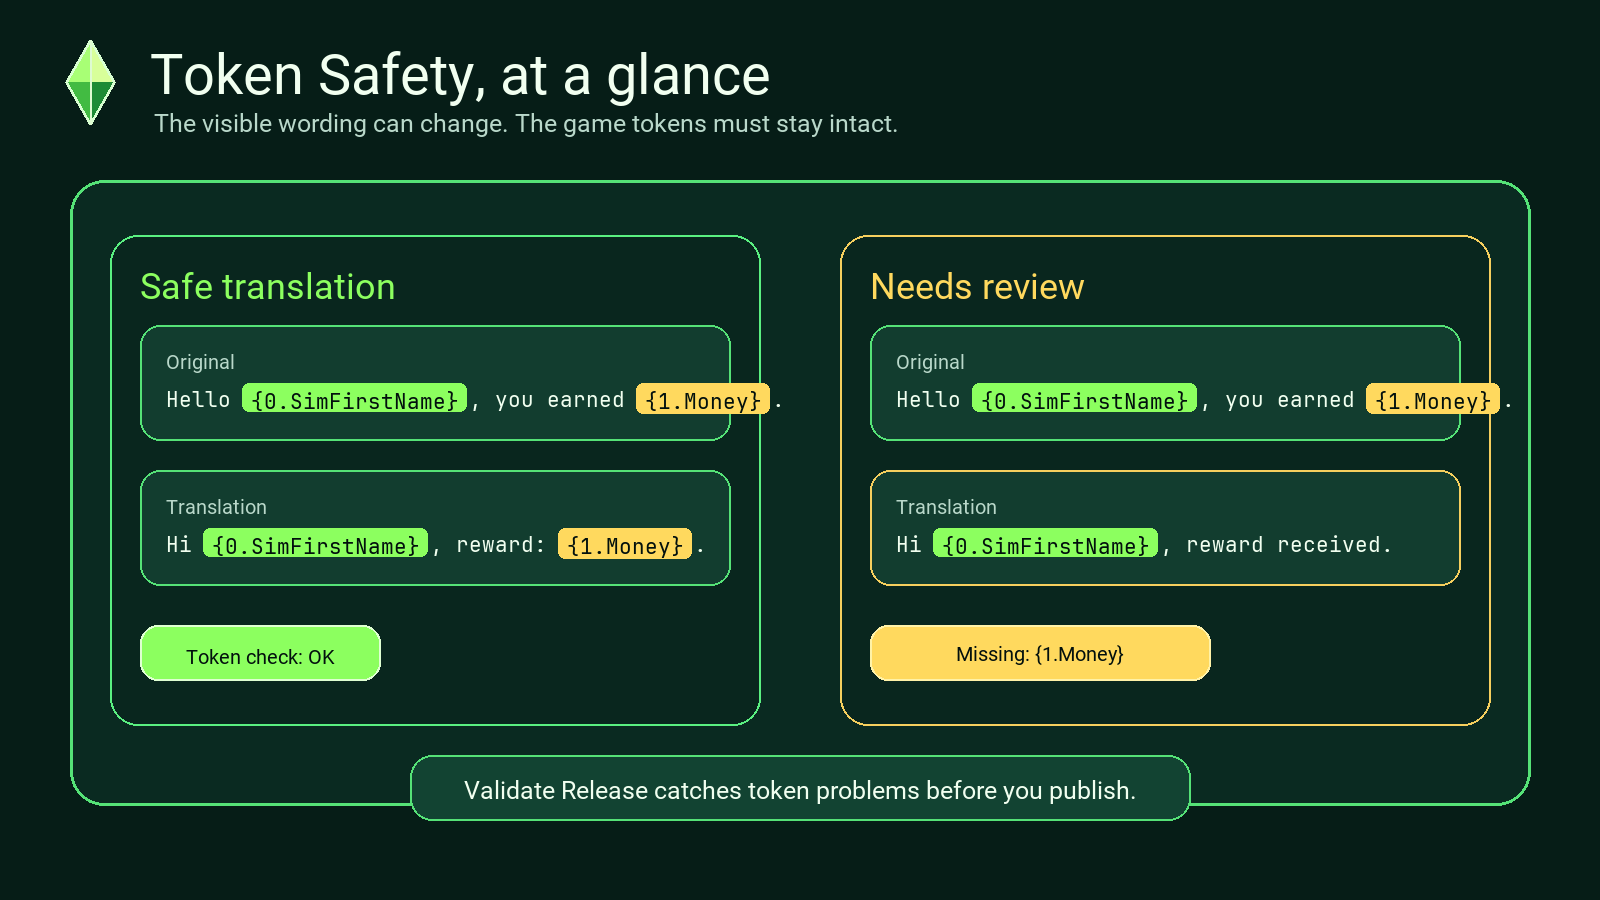
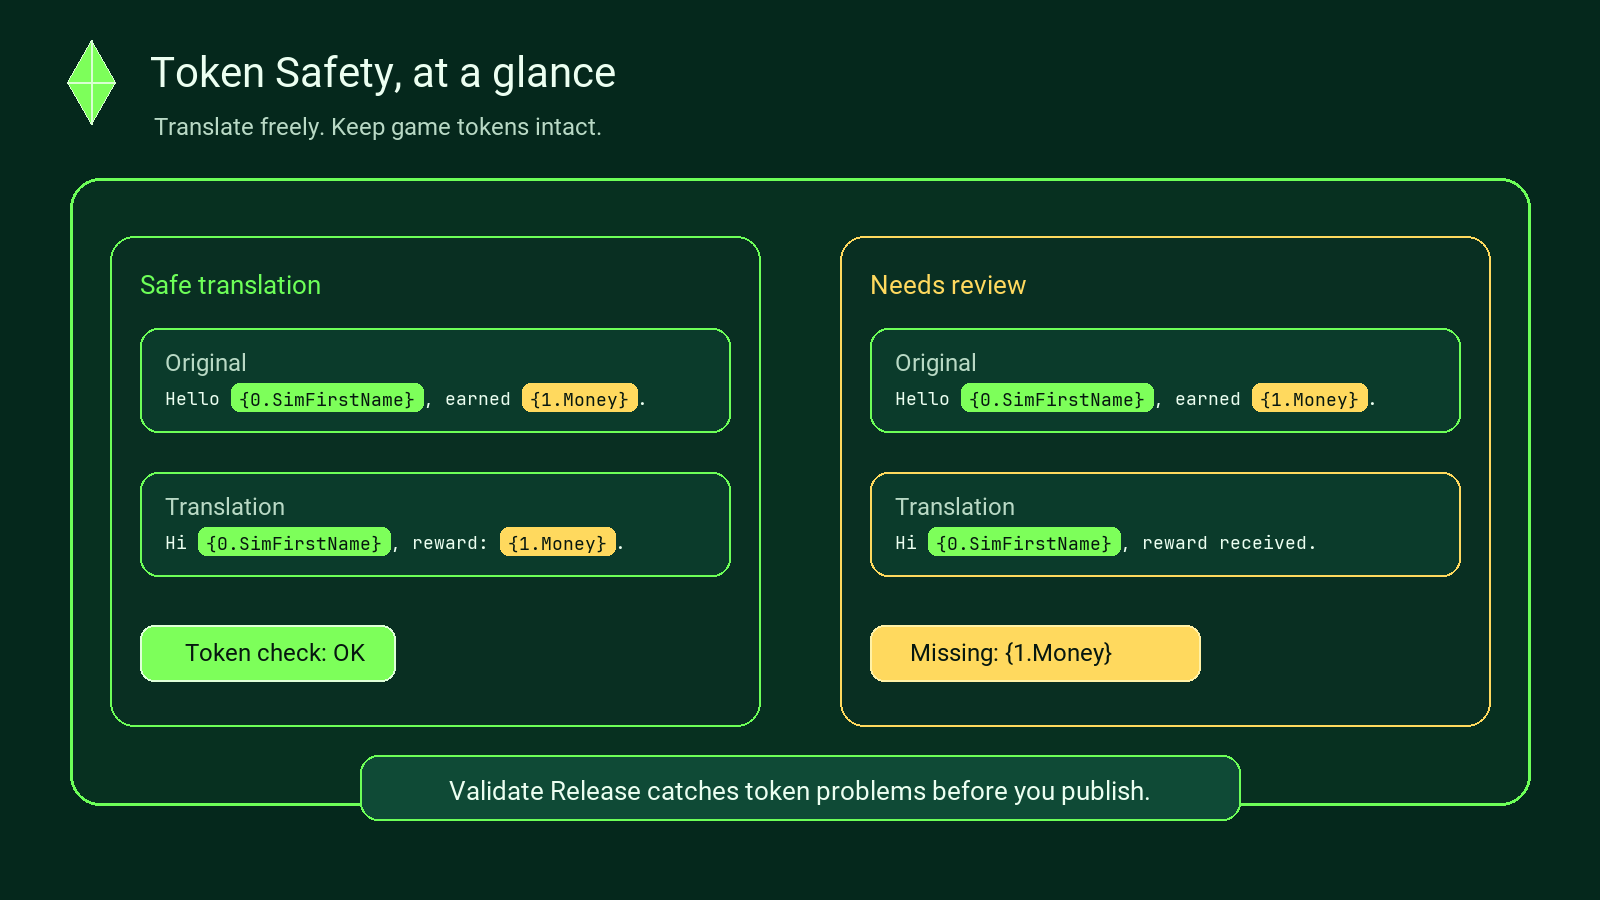
Polish the public filter UI before recreating the rebrand release
The public workspace no longer carries the hidden Studio Filters title or its unused hint, keeping the search/status tray compact while preserving the table-first workflow. The README token safety illustration was regenerated so it renders within its frame on GitHub.

Constraint: Keep public source clean and avoid committing local graph/understand artifacts or release outputs

Constraint: Preserve package formats and translator behavior

Rejected: Keep the Studio Filters QLabel hidden | hidden dead UI keeps an obsolete public label in source and translations

Confidence: high

Scope-risk: narrow

Directive: Keep Advanced Search inline with the Search row unless a future UI review shows it harms compact layouts

Tested: python -m unittest discover -s tests -v

Tested: python -m compileall -q models packer singletons storages themes utils widgets windows tests scripts main.py

Tested: python scripts\create_synthetic_package.py

Tested: python scripts\verify_synthetic_smoke.py --directory build\synthetic --require-gui-outputs

Tested: git diff --check

Tested: powershell -NoProfile -ExecutionPolicy Bypass -File scripts\build_windows.ps1

Not-tested: Manual UI QA on a real full DLC package after this final polish

diff --git a/windows/ui/main_window.py b/windows/ui/main_window.py
@@ -583,17 +583,11 @@ class Ui_MainWindow(object):
         self.filter_layout.setContentsMargins(12, 9, 12, 9)
         self.filter_layout.setHorizontalSpacing(9)
         self.filter_layout.setVerticalSpacing(7)
+        self.filter_layout.setColumnStretch(1, 2)
         self.filter_layout.setColumnStretch(2, 2)
         self.filter_layout.setColumnStretch(3, 2)
-        self.filter_layout.setColumnStretch(5, 1)
         self.filter_layout.setColumnStretch(6, 1)
-
-        self.filter_title = QLabel('Filters', board)
-        self.filter_title.setObjectName('panelTitle')
-        self.filter_hint = QLabel('Search, status and scope stay close to the table.', board)
-        self.filter_hint.setObjectName('panelHint')
-        self.filter_hint.setWordWrap(True)
-        self.filter_hint.setVisible(False)
+        self.filter_layout.setColumnStretch(7, 1)
 
         self.filter_search_label = QLabel('Search', board)
         self.filter_search_label.setObjectName('sectionLabel')
@@ -615,11 +609,13 @@ class Ui_MainWindow(object):
         self.advanced_search_mode_label.setObjectName('fieldLabel')
         self.advanced_search_mode = QComboBox(self.advanced_search_panel)
         self.advanced_search_mode.setObjectName('advancedSearchMode')
+        self.advanced_search_mode.setMinimumWidth(170)
+        self.advanced_search_mode.setSizePolicy(QSizePolicy.Policy.Expanding, QSizePolicy.Policy.Fixed)
         self.advanced_search_warning = QLabel('', self.advanced_search_panel)
         self.advanced_search_warning.setObjectName('tokenDetail')
         self.advanced_search_warning.setVisible(False)
         self.advanced_search_layout.addWidget(self.advanced_search_mode_label)
-        self.advanced_search_layout.addWidget(self.advanced_search_mode)
+        self.advanced_search_layout.addWidget(self.advanced_search_mode, 1)
         self.advanced_search_layout.addWidget(self.advanced_search_warning, 1)
         self.advanced_search_panel.setVisible(False)
 
@@ -646,16 +642,15 @@ class Ui_MainWindow(object):
         self.filter_clear.setAutoDefault(False)
         self.__scope_group()
 
-        self.filter_layout.addWidget(self.filter_title, 0, 0)
-        self.filter_layout.addWidget(self.filter_search_label, 0, 1)
-        self.filter_layout.addWidget(self.filter_search, 0, 2, 1, 4)
-        self.filter_layout.addWidget(self.filter_advanced_toggle, 0, 6)
-        self.filter_layout.addWidget(self.advanced_search_panel, 2, 1, 1, 6)
+        self.filter_layout.addWidget(self.filter_search_label, 0, 0)
+        self.filter_layout.addWidget(self.filter_search, 0, 1, 1, 4)
+        self.filter_layout.addWidget(self.filter_advanced_toggle, 0, 5)
+        self.filter_layout.addWidget(self.advanced_search_panel, 0, 6, 1, 2)
         self.filter_layout.addWidget(self.filter_status_label, 1, 0)
         self.filter_layout.addWidget(self.filter_all, 1, 1)
-        self.filter_layout.addWidget(self.filter_original, 1, 2)
-        self.filter_layout.addWidget(self.filter_validated, 1, 3, 1, 2)
-        self.filter_layout.addWidget(self.filter_progress, 1, 5, 1, 2)
+        self.filter_layout.addWidget(self.filter_original, 1, 2, 1, 2)
+        self.filter_layout.addWidget(self.filter_validated, 1, 4, 1, 2)
+        self.filter_layout.addWidget(self.filter_progress, 1, 6, 1, 2)
 
         return board
 

diff --git a/windows/main_window.py b/windows/main_window.py
@@ -302,15 +302,14 @@ class MainWindow(QMainWindow, Ui_MainWindow):
         self.menu_options.setTitle(interface.text('MainWindow', 'Options'))
         self.menu_group.setTitle(interface.text('MainWindow', 'Group'))
         self.menu_help.setTitle(interface.text('MainWindow', 'Help'))
-        self.filter_title.setText(interface.text('MainWindow', 'Studio Filters'))
-        self.filter_hint.setText(interface.text('MainWindow', 'Search, status and scope stay close to the table.'))
         self.filter_search_label.setText(interface.text('MainWindow', 'Search'))
         self.filter_search.setPlaceholderText(interface.text('MainWindow', 'Search ID, Original, or Translation...'))
         self.filter_search.setToolTip(interface.text(
             'MainWindow',
             'Search ID, original text, and translation text at the same time.'
         ))
-        self.filter_advanced_toggle.setText(interface.text('MainWindow', 'Advanced Search'))
+        self.filter_advanced_toggle.setText(interface.text('MainWindow', 'Advanced'))
+        self.filter_advanced_toggle.setToolTip(interface.text('MainWindow', 'Show advanced search modes'))
         self.advanced_search_mode_label.setText(interface.text('MainWindow', 'Mode'))
         self.filter_status_label.setText(interface.text('MainWindow', 'Status'))
         self.filter_scope_label.setText(interface.text('MainWindow', 'Scope'))
@@ -523,16 +522,18 @@ class MainWindow(QMainWindow, Ui_MainWindow):
         self.filter_layout.setVerticalSpacing(5)
         for column in range(8):
             self.filter_layout.setColumnStretch(column, 0)
+        self.filter_layout.setColumnStretch(1, 2)
         self.filter_layout.setColumnStretch(2, 2)
         self.filter_layout.setColumnStretch(3, 2)
-        self.filter_layout.setColumnStretch(4, 2)
-        self.filter_layout.setColumnStretch(5, 2)
+        self.filter_layout.setColumnStretch(6, 1)
+        self.filter_layout.setColumnStretch(7, 1)
 
         for widget in (
-                self.filter_title,
                 self.filter_search_label,
                 self.filter_status_label,
                 self.filter_search,
+                self.filter_advanced_toggle,
+                self.advanced_search_panel,
                 self.filter_all,
                 self.filter_original,
                 self.filter_translated,
@@ -546,6 +547,7 @@ class MainWindow(QMainWindow, Ui_MainWindow):
                 self.filter_clear,
         ):
             widget.setVisible(True)
+        self.advanced_search_panel.setVisible(self.filter_advanced_toggle.isChecked())
         self.filter_scope_label.setVisible(False)
         self.filter_file_label.setText(interface.text('MainWindow', 'Package'))
         self.filter_instance_label.setText(interface.text('MainWindow', 'Instance'))
@@ -1386,9 +1388,9 @@ class MainWindow(QMainWindow, Ui_MainWindow):
         self.filter_layout.removeWidget(self.filter_progress)
 
         self.filter_layout.addWidget(self.filter_all, 1, 1)
-        self.filter_layout.addWidget(self.filter_original, 1, 2)
-        self.filter_layout.addWidget(self.filter_validated, 1, 3, 1, 2)
-        self.filter_layout.addWidget(self.filter_progress, 1, 5, 1, 2)
+        self.filter_layout.addWidget(self.filter_original, 1, 2, 1, 2)
+        self.filter_layout.addWidget(self.filter_validated, 1, 4, 1, 2)
+        self.filter_layout.addWidget(self.filter_progress, 1, 6, 1, 2)
 
     @staticmethod
     def __format_filter_count(value, compact=False):

diff --git a/tests/test_big_workspace_ui.py b/tests/test_big_workspace_ui.py
@@ -1038,7 +1038,7 @@ class WorkspaceProShellTests(unittest.TestCase):
             self.assertEqual(window.command_bar.property('density'), 'spacious')
             self.assertEqual(window.filter_panel.property('density'), 'spacious')
             self.assertTrue(window.command_scope_group.isVisibleTo(window))
-            self.assertTrue(window.filter_title.isVisibleTo(window))
+            self.assertFalse(hasattr(window, 'filter_title'))
             self.assertEqual(window.filter_file_label.text(), 'Package')
             self.assertEqual(window.filter_instance_label.text(), 'Instance')
             self.assertEqual(window.filter_layout.indexOf(window.filter_file), -1)
@@ -1299,6 +1299,10 @@ class WorkspaceProShellTests(unittest.TestCase):
 
             window.filter_advanced_toggle.setChecked(True)
             self.assertFalse(window.advanced_search_panel.isHidden())
+            row, _column, _row_span, _column_span = window.filter_layout.getItemPosition(
+                window.filter_layout.indexOf(window.advanced_search_panel)
+            )
+            self.assertEqual(row, 0)
 
             window.advanced_search_mode.setCurrentText('Exact')
             window.filter_search.setText('Exact target')
@@ -1907,7 +1911,8 @@ class WorkspaceProShellTests(unittest.TestCase):
             self.assertEqual(interface.text('MainWindow', 'Status Overview Bar'), 'Thanh tổng quan trạng thái')
             self.assertEqual(window.command_open.text(), 'Mở')
             self.assertEqual(window.command_dictionary.text(), 'Từ điển')
-            self.assertEqual(window.filter_title.text(), 'Bộ lọc Studio')
+            self.assertFalse(hasattr(window, 'filter_title'))
+            self.assertEqual(window.filter_advanced_toggle.text(), 'Nâng cao')
             self.assertEqual(window.inspector_apply.text(), 'Phê duyệt')
             self.assertEqual(interface.text('TokenValidation', 'Token check:'), 'Kiểm tra token:')
             self.assertEqual(interface.text('MainWindow', 'Untranslated source fallback'), 'Untranslated source fallback')